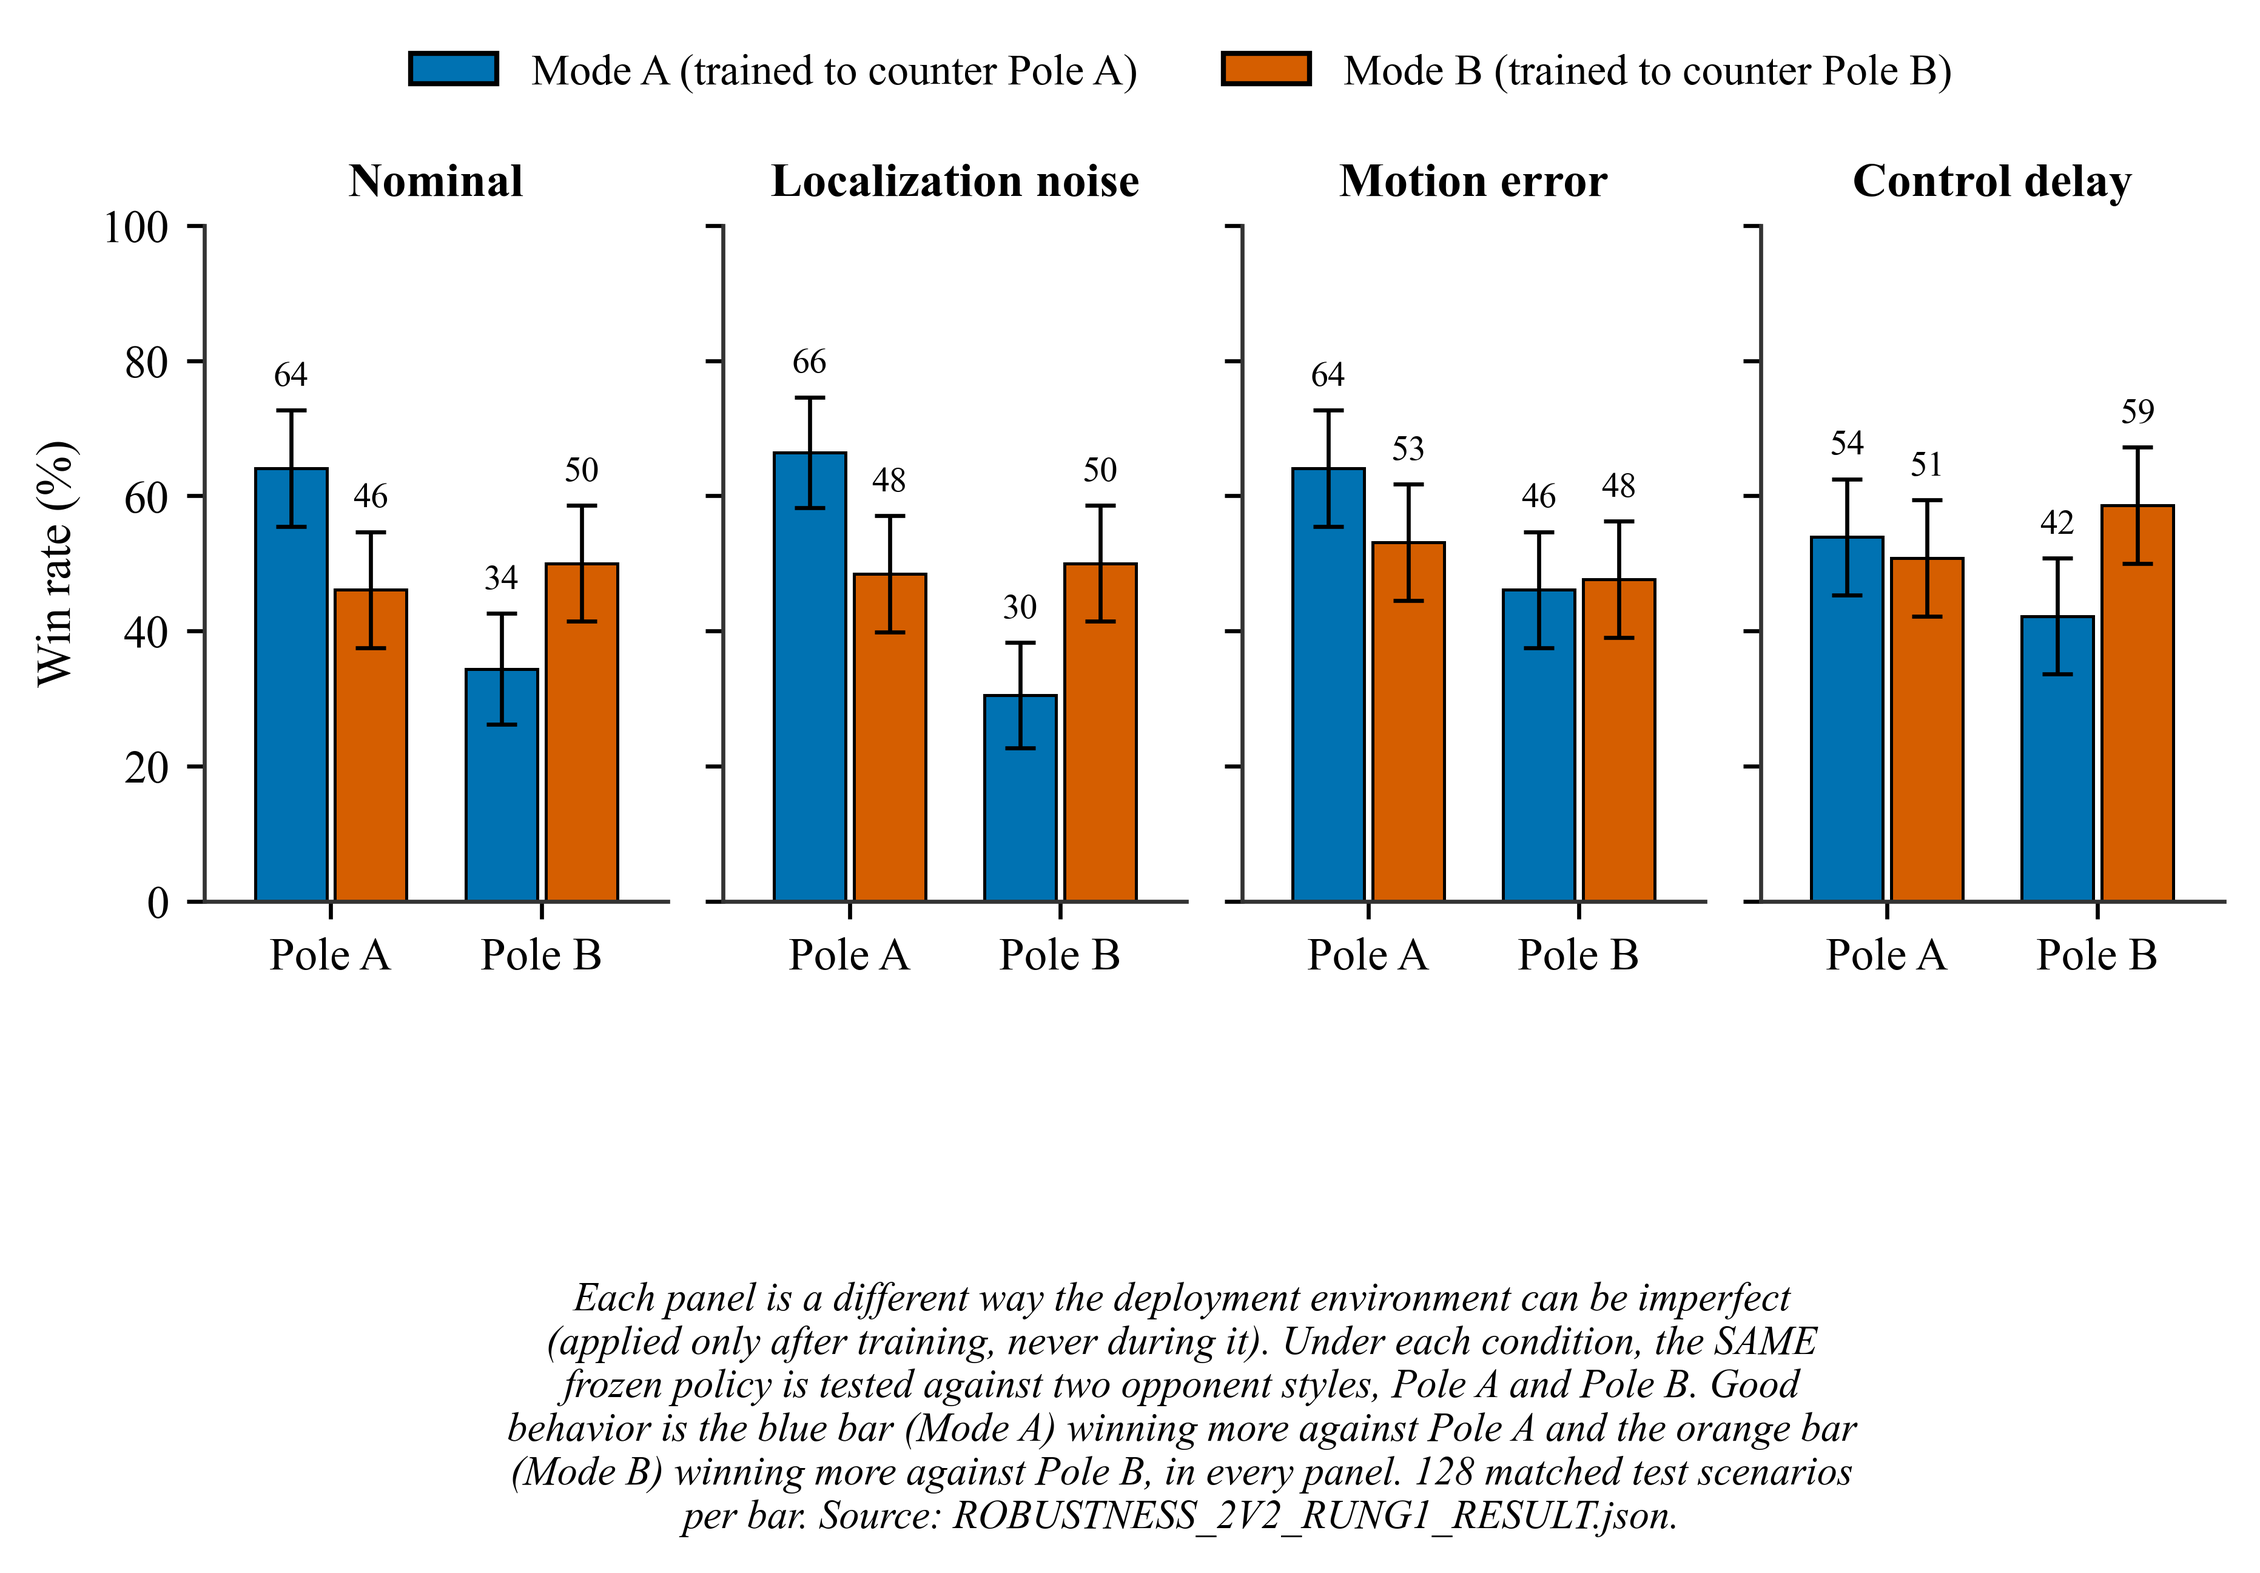
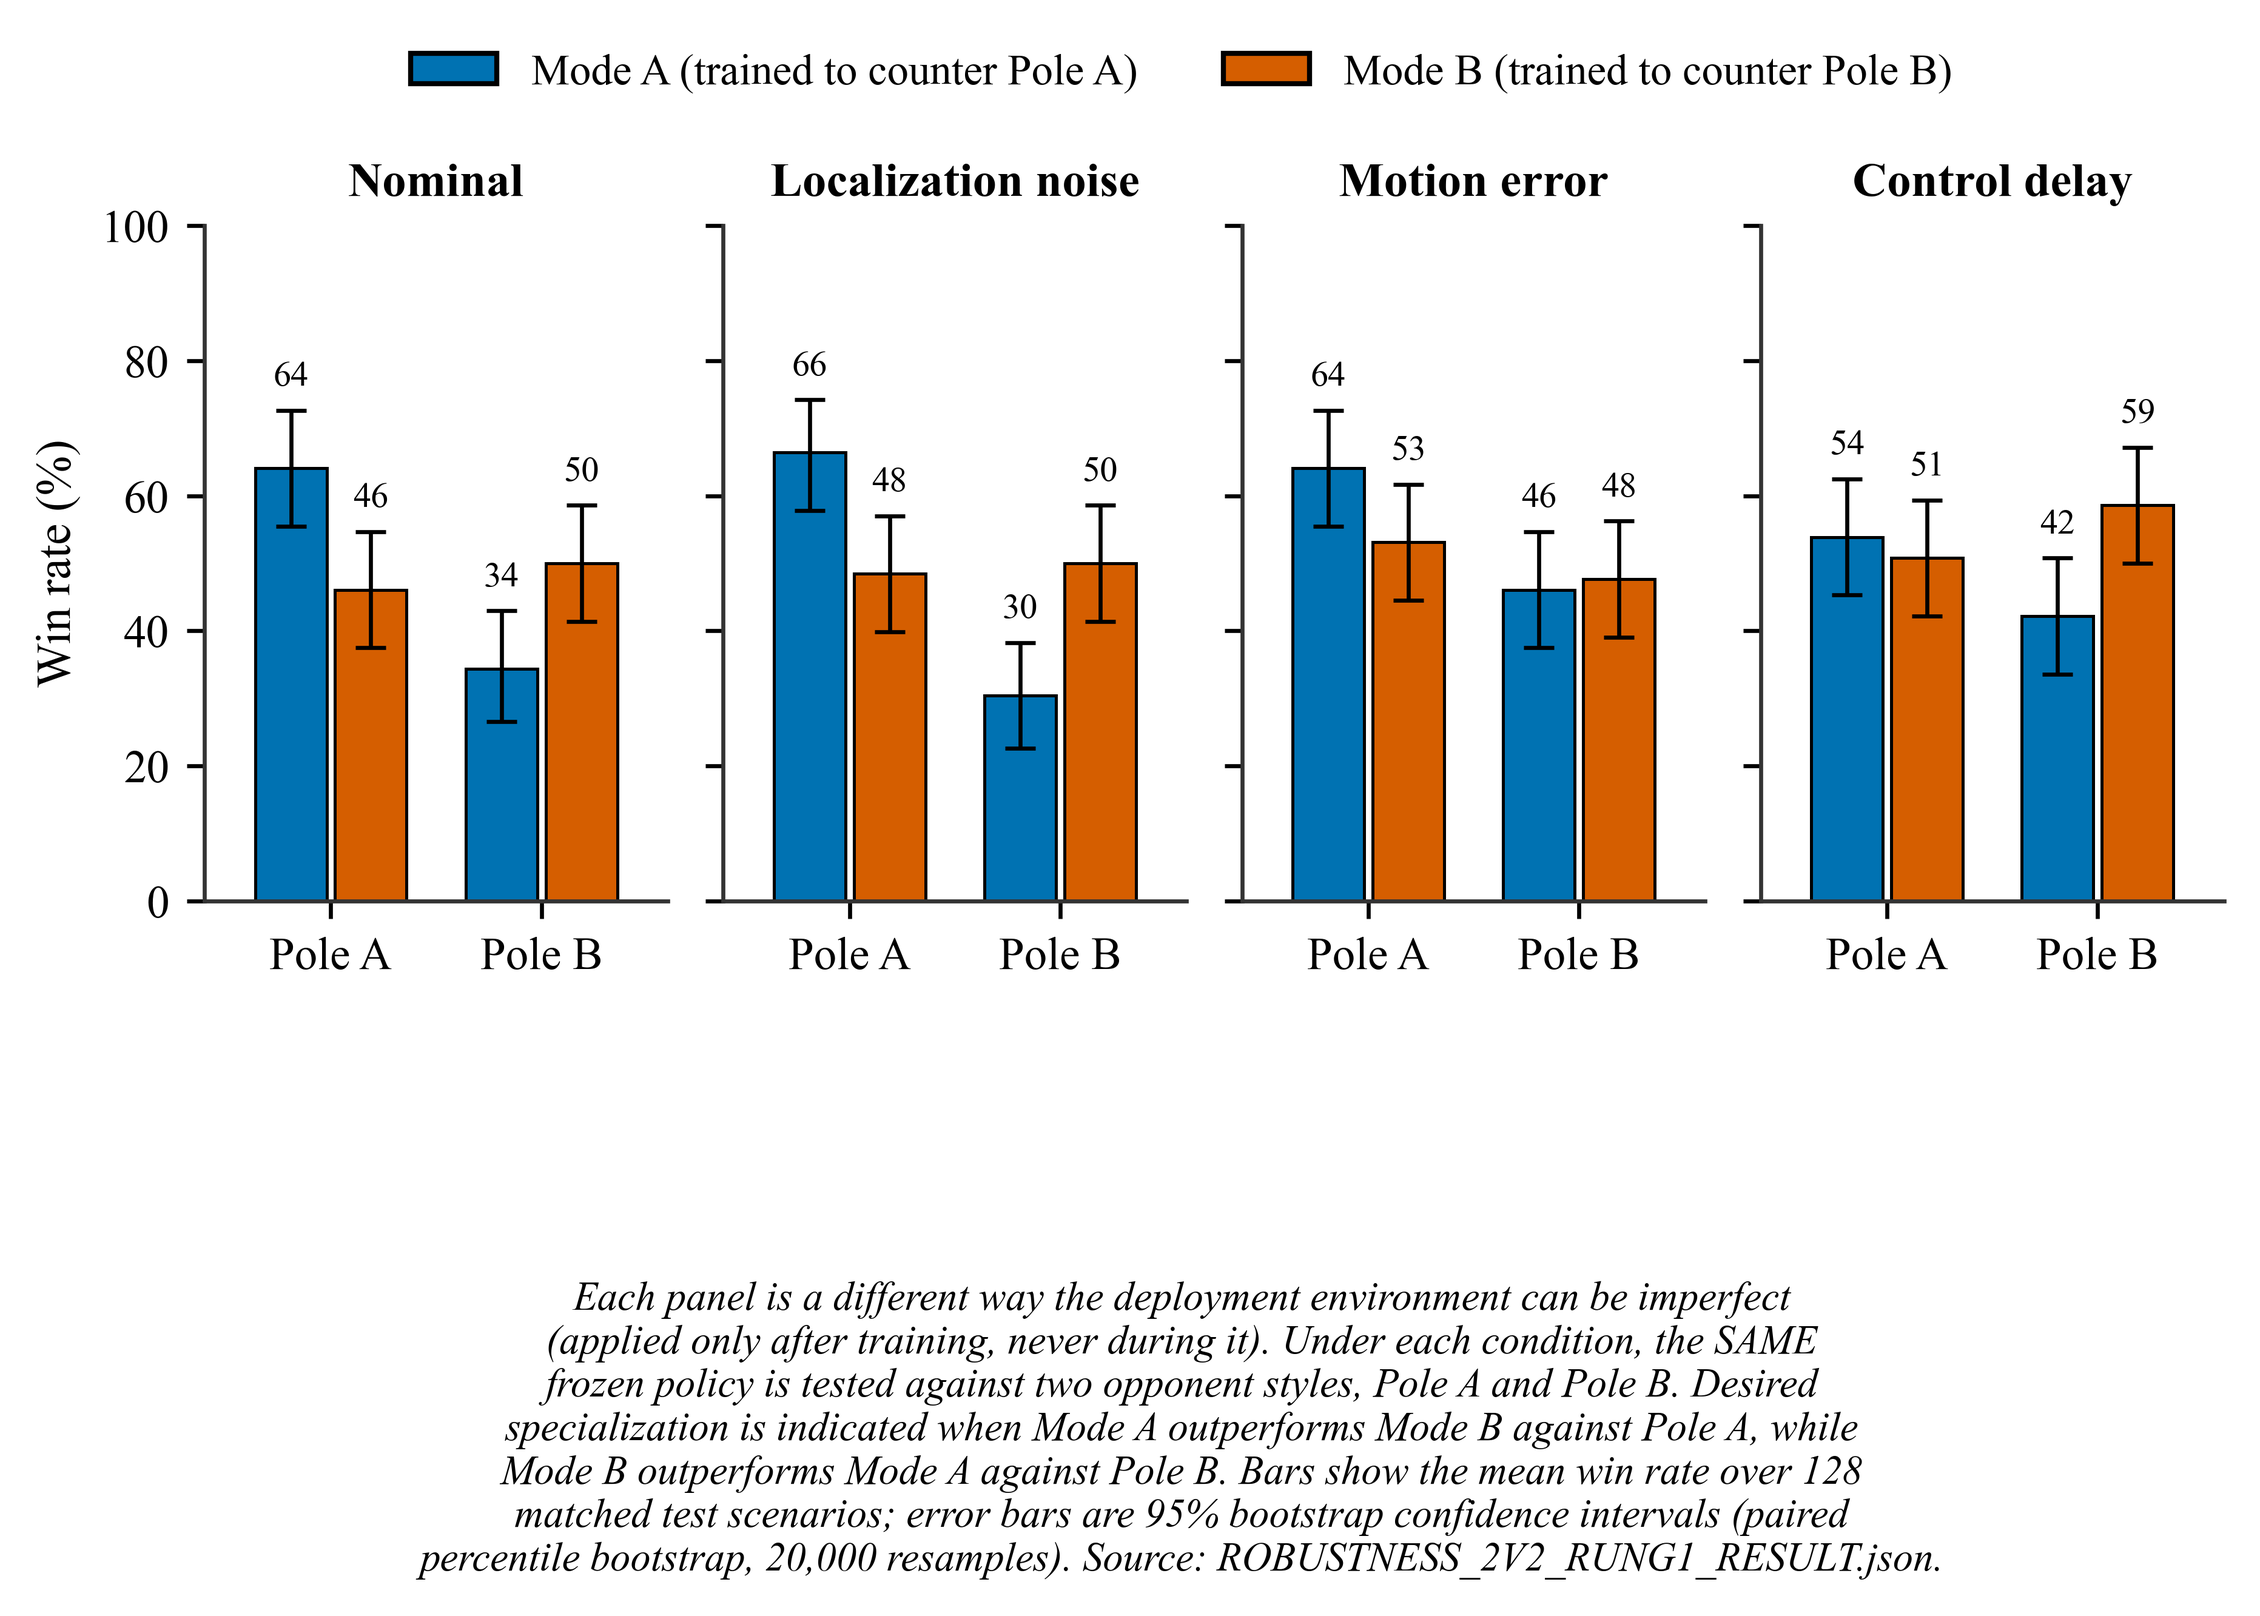
Robustness figure: true asymmetric CI error bars, objective caption wording
Two corrections from review.

Error bars were a SYMMETRIC half-width of the 95% CI, ((hi-lo)/2), plotted
around the mean -- an approximation that would silently misrepresent a
skewed bootstrap distribution as symmetric. Now plots the true asymmetric
bounds (mean-lo, hi-mean) via matplotlib's two-row yerr, so "error bars
are the 95% CI" is now exactly true rather than an approximation labeled
as if it were exact.

Caption said good behavior was seen "in every panel," which reads as
declaring the result before the statistical test. Replaced with the
PI's wording: "Desired specialization is indicated when Mode A
outperforms Mode B against Pole A, while Mode B outperforms Mode A
against Pole B" -- states the criterion, not the verdict. Also states
exactly what the error bars represent (95% bootstrap CI, paired
percentile bootstrap, 20,000 resamples) rather than leaving them
unlabeled.

diff --git a/AICTFProject/paper/figures/robustness_2v2_bars.py b/AICTFProject/paper/figures/robustness_2v2_bars.py
@@ -58,11 +58,20 @@ def _load(pole: str, z: int, family: str, severity: str) -> np.ndarray:
 
 
 def _mean_ci_pct(wins: np.ndarray, n_boot=20000, alpha=0.05, rng_seed=7):
+    """Mean and the TRUE (possibly asymmetric) percentile-bootstrap 95% CI, in percent.
+
+    Returns (mean, lower_err, upper_err) where lower_err/upper_err are the distances from
+    the mean down to the CI's low bound and up to its high bound -- i.e. exactly what
+    matplotlib's asymmetric yerr wants, and exactly what "error bars are the 95% CI" means.
+    A single symmetric half-width would silently misrepresent a skewed bootstrap
+    distribution as symmetric.
+    """
     rng = np.random.default_rng(rng_seed)
     idx = rng.integers(0, wins.size, size=(n_boot, wins.size))
     boots = wins[idx].mean(axis=1)
     lo, hi = np.percentile(boots, [100 * alpha / 2, 100 * (1 - alpha / 2)])
-    return wins.mean() * 100, ((hi - lo) / 2) * 100
+    mean = wins.mean()
+    return mean * 100, max(0.0, (mean - lo) * 100), max(0.0, (hi - mean) * 100)
 
 
 def main() -> dict:
@@ -78,12 +87,12 @@ def main() -> dict:
         for pole in ("A", "B"):
             for mode in ("A", "B"):
                 wins = _load(pole, 0 if mode == "A" else 1, family, severity)
-                value, err = _mean_ci_pct(wins)
+                value, err_lo, err_hi = _mean_ci_pct(wins)
                 x = group_x[pole] + mode_dx[mode]
-                ax.bar(x, value, yerr=err, width=bar_w, color=MODE_COLOR[mode],
-                      edgecolor="black", linewidth=0.6, capsize=3,
+                ax.bar(x, value, yerr=[[err_lo], [err_hi]], width=bar_w,
+                      color=MODE_COLOR[mode], edgecolor="black", linewidth=0.6, capsize=3,
                       error_kw={"elinewidth": 0.8, "capthick": 0.8})
-                ax.text(x, value + err + 2.5, f"{value:.0f}", ha="center", va="bottom",
+                ax.text(x, value + err_hi + 2.5, f"{value:.0f}", ha="center", va="bottom",
                         fontsize=7)
         ax.set_xticks([group_x["A"], group_x["B"]])
         ax.set_xticklabels(["Pole A", "Pole B"])
@@ -105,10 +114,11 @@ def main() -> dict:
     caption = (
         "Each panel is a different way the deployment environment can be imperfect\n"
         "(applied only after training, never during it). Under each condition, the SAME\n"
-        "frozen policy is tested against two opponent styles, Pole A and Pole B. Good\n"
-        "behavior is the blue bar (Mode A) winning more against Pole A and the orange bar\n"
-        "(Mode B) winning more against Pole B, in every panel. 128 matched test scenarios\n"
-        "per bar. Source: ROBUSTNESS_2V2_RUNG1_RESULT.json."
+        "frozen policy is tested against two opponent styles, Pole A and Pole B. Desired\n"
+        "specialization is indicated when Mode A outperforms Mode B against Pole A, while\n"
+        "Mode B outperforms Mode A against Pole B. Bars show the mean win rate over 128\n"
+        "matched test scenarios; error bars are 95% bootstrap confidence intervals (paired\n"
+        "percentile bootstrap, 20,000 resamples). Source: ROBUSTNESS_2V2_RUNG1_RESULT.json."
     )
     fig.text(0.5, -0.14, caption, ha="center", va="top", fontsize=8, style="italic")
     fig.subplots_adjust(wspace=0.12, bottom=0.22, top=0.86)
